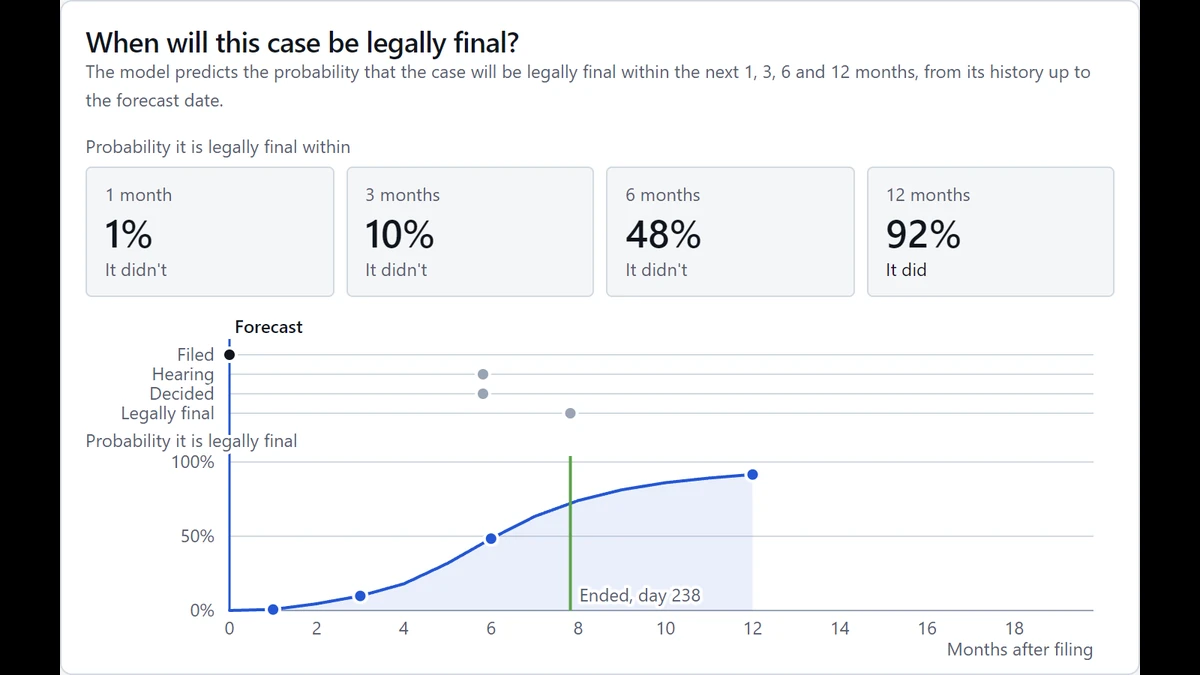
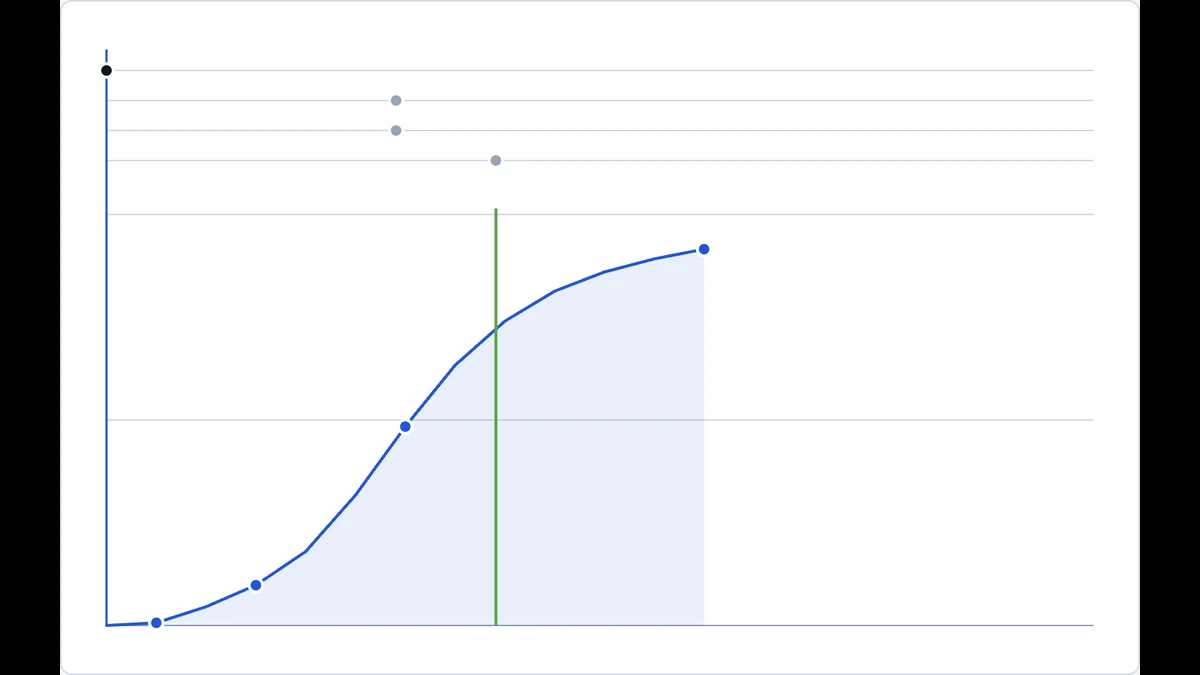
A thumbnail with no text: the Forecast chart alone (v0.13.2)
The project card's thumbnail keeps the Forecast tab's chart and drops all
its text: the heading, the boxes, the stages' names, the axes and the
labels. The chart's box reaches over the room it keeps for its labels, so
the drawing sits evenly in the frame. static.webp and og.jpg don't change.

Fixes #40

diff --git a/scripts/stills.py b/scripts/stills.py
@@ -2,12 +2,13 @@
 
 - static.webp and static-light.webp: the opening state, the Process map for all courts. Shown while
   the demo loads, and without JavaScript.
-- thumb.webp and thumb-light.webp: the Forecast tab on the case it opens on, for the project card
-  (Mark, 2026-11-26: it looks better there than the map). The stage is shot at 720 x 450: small, so
-  its text stays readable on the card, but no smaller than the site shows it, so its labels have the
-  room they have there. That's 16:10, the card's shape, centred on the theme's page colour at
-  1200 x 675. The card trims those margins.
-- og.jpg: the same forecast at 1200 x 630, dark only, for link previews.
+- thumb.webp and thumb-light.webp: the Forecast tab's chart on the case it opens on, for the project
+  card (Mark, 2026-11-26: it looks better there than the map). It has no text (Mark, 2026-11-26:
+  "the thumbnails should show no text and only visual indications of the demo itself"): no heading
+  or boxes, and none of the chart's labels, so the chart fills the stage. The stage is shot at
+  720 x 450, 16:10, the card's shape, centred on the theme's page colour at 1200 x 675. The card
+  trims those margins.
+- og.jpg: the Forecast tab, with its text, at 1200 x 630, dark only, for link previews.
 
 Serves the built demo (demo/dist/, from `npm run build`), opens it in a browser and screenshots the
 stage alone at 2x. Then rebuild, so the bundle carries the new stills.
@@ -41,6 +42,28 @@ CSS = """
 [data-demo] .dk-stage { width: %dpx; height: %dpx !important; aspect-ratio: auto !important; }
 """
 
+# For the thumbnail: the forecast's chart alone, filling the stage, with none of its text.
+BARE = """
+[data-demo] .sd-forecast { grid-template-rows: minmax(0, 1fr); padding: var(--space-4); }
+[data-demo] .sd-forecast .sd-case, [data-demo] .sd-forecast .sd-chances,
+[data-demo] .sd-forecast .sd-chart text { display: none !important; }
+"""
+
+# The room the chart keeps for its labels beyond what it keeps on the opposite side: on the left for
+# the lanes' names and the ticks, against the right; below for the time axis, against the line of the
+# day of the forecast at the top. The thumbnail's chart box reaches that far past the stage's padding,
+# so the drawing sits evenly in it.
+ROOM = """() => {
+  const svg = document.querySelector('.sd-forecast .sd-chart');
+  const lane = svg.querySelector('.sd-lane');
+  const axis = svg.querySelector('.sd-axis-line');
+  const now = svg.querySelector('.sd-now');
+  const [width, height] = [svg.width.baseVal.value, svg.height.baseVal.value];
+  return [lane.x1.baseVal.value - (width - lane.x2.baseVal.value),
+    height - axis.y1.baseVal.value - now.y1.baseVal.value];
+}"""
+REACH = "[data-demo] .sd-forecast .sd-chart-box { margin: 0 0 -%.1fpx -%.1fpx; }"
+
 
 class QuietHandler(http.server.SimpleHTTPRequestHandler):
     def log_message(self, *args):
@@ -59,18 +82,23 @@ def open_page(browser, url, errors):
     return page
 
 
-def shoot(page, theme, width, height):
-    """Screenshots the stage at width x height CSS px in the theme.
-
-    Returns the image, with the page's colour as (r, g, b).
-    """
+def style(page, theme, css):
+    """Sets the theme and the still's CSS, and waits for the frame to redraw."""
     page.evaluate(
         "([theme, css]) => { document.documentElement.dataset.theme = theme;"
         " document.getElementById('still').textContent = css; }",
-        [theme, CSS % (width, height)],
+        [theme, css],
     )
     page.mouse.move(0, 0)
     page.wait_for_timeout(500)  # the frame redraws on the resize
+
+
+def shoot(page, theme, width, height, extra=""):
+    """Screenshots the stage at width x height CSS px in the theme, with `extra` CSS.
+
+    Returns the image, with the page's colour as (r, g, b).
+    """
+    style(page, theme, CSS % (width, height) + extra)
     png = page.locator(".dk-stage").screenshot()
     background = page.evaluate("getComputedStyle(document.body).backgroundColor")
     colour = tuple(int(c) for c in re.findall(r"\d+", background)[:3])
@@ -93,9 +121,12 @@ def render(browser, url, errors):
         stills["static", theme] = shoot(page, theme, 1200, 675)
     show_tab(page, "Forecast")
     page.wait_for_selector(".sd-forecast .sd-forecast-line")
-    for theme in THEMES:
-        stills["thumb", theme] = shoot(page, theme, 720, 450)
     stills["og", "dark"] = shoot(page, "dark", 800, 420)
+    # The frame redraws only when the stage changes size, so the room is measured on the link
+    # preview's chart, which keeps the same, and the thumbnail's size brings the redraw.
+    bare = BARE + REACH % tuple(reversed(page.evaluate(ROOM)))
+    for theme in THEMES:
+        stills["thumb", theme] = shoot(page, theme, 720, 450, bare)
     page.close()
     return stills
 

diff --git a/docs/plan.md b/docs/plan.md
@@ -960,6 +960,11 @@ Added with Mark on 2026-11-25, after the first four PRs: weighting recent traini
   - **The stills** are reshot: `static.webp` and `static-light.webp` show the map. The Forecast tab's (`thumb.webp`, `thumb-light.webp` and `og.jpg`) had been left from before the forecast's y axis title moved in v0.13.0's third round, so they change too.
   - **Tests:** the route test checks that the arc over the hearing's arrow rises as far as the bottom row lies below, for a hairline and the widest arrow. 45 in all.
   - **Checked in Edge,** with the built bundle, at 1920 × 960, 1440 × 900, 1366 × 650, 1100 × 520 and 390 × 844, for all courts and Prague 2: the distances match to 0.1 px, and there are no console errors. Hovering each arrow at 1440 × 900 (all courts and Prague 2) and 390 px shows its numbers, but for the phone's filed → suspended above. The bundle is 832 KB.
+- [x] A thumbnail with no text (v0.13.2, issue #40).
+  - **Asked for by Mark on 2026-11-26,** through the site's session: "As a general rule the thumbnails should show no text and only visual indications of the demo itself. For the court case one, the plot is fine, but it should be stripped of all the text and numbers for the thumbnail."
+  - **`thumb.webp` and `thumb-light.webp`** are the Forecast tab's chart alone, on 18 C 33/2024 at Jihlava at filing as before: the lanes and their event dots, the line of the day of the forecast, the gridlines, the forecast's curve, dots and shaded area, and the line of the day the case ended. The heading, the explanation, the four boxes, the stages' names, the axes' numbers and titles, and the "Forecast" and "Ended, day 238" labels are gone. `static.webp` and `og.jpg` don't change.
+  - **How:** `scripts/stills.py` hides them with CSS for the thumbnail only, so the chart fills the stage. The chart still keeps room for its labels, 82 px more on the left than on the right and 18 px more below than above, so its box reaches that far past the stage's padding, and the drawing sits evenly in the frame. The room is read off the drawn chart, not copied from `views/forecast.js`. The frame redraws only when the stage changes size, so it's measured before the stage takes the thumbnail's size.
+  - **Checked** in both themes: no text, the drawing 45 px from the frame's sides and about 48 px from its top and bottom on the 1200 × 675 image, and 9.5 KB each (43 KB before). The bundle is 765 KB.
 
 
 ### 9. Write-up: release status `live`
